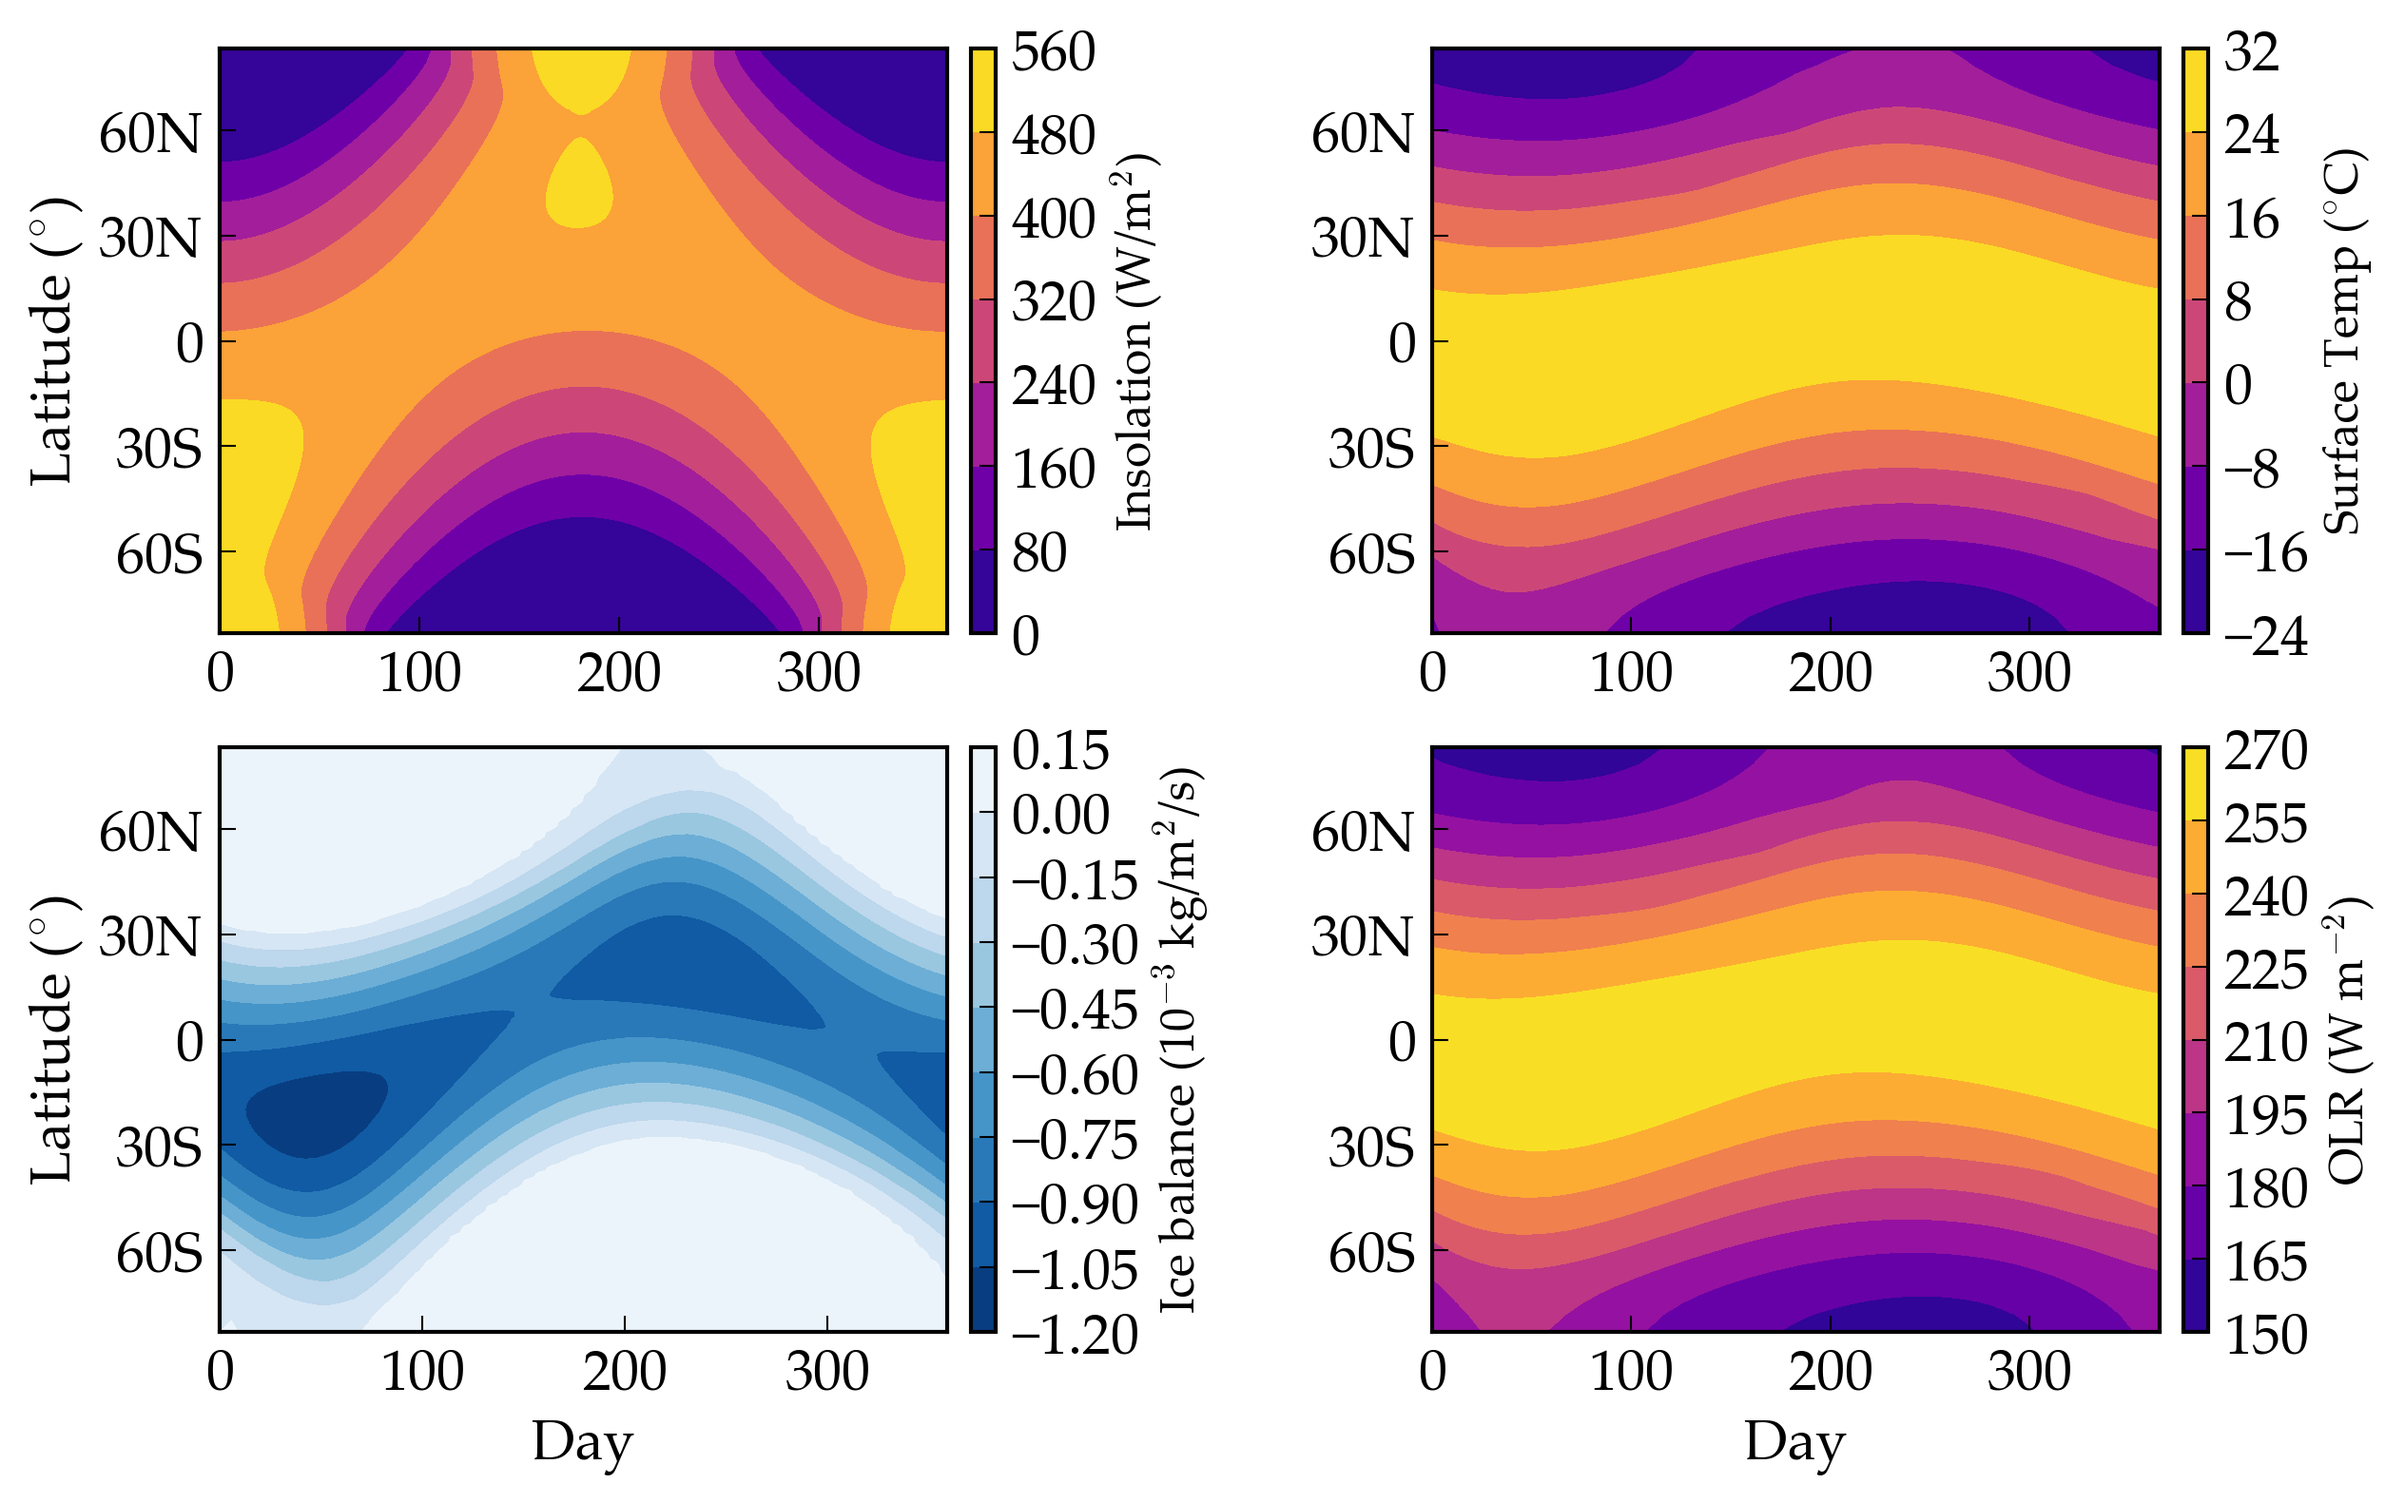
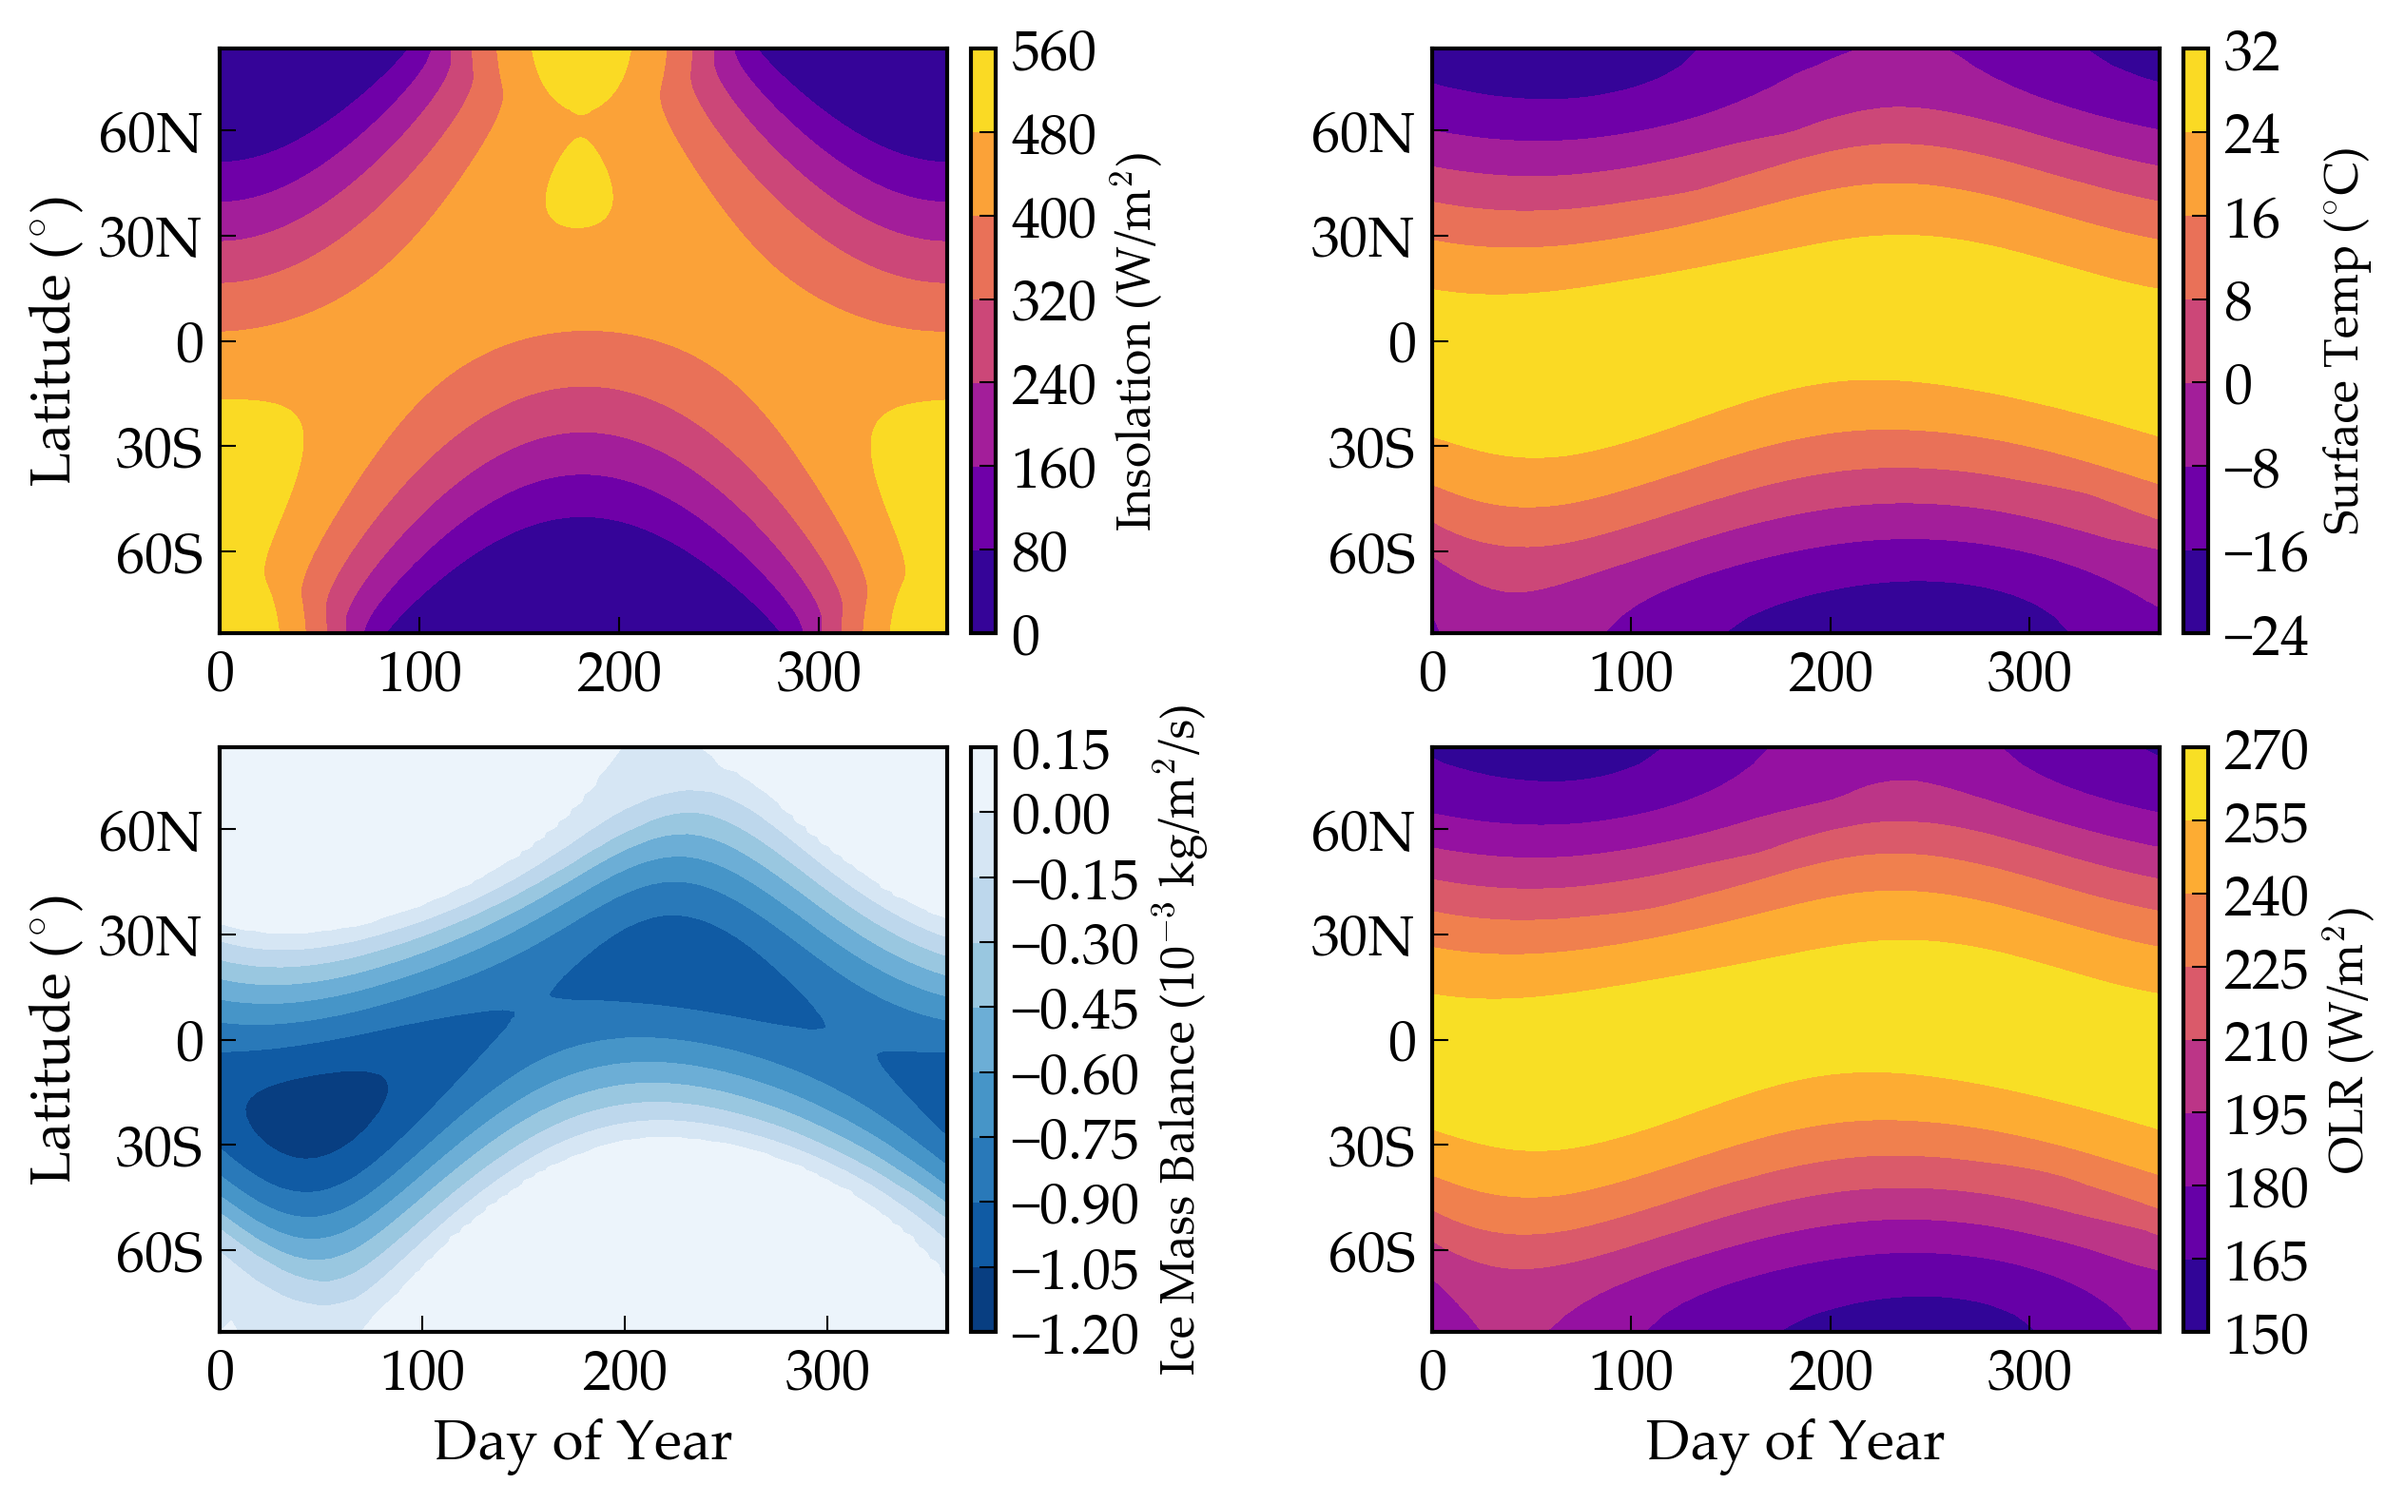
Tidied examples/EarthClimate/EarthClimateSeasons.png.

diff --git a/examples/EarthClimate/makeplot.py b/examples/EarthClimate/makeplot.py
@@ -351,9 +351,9 @@ def seasonal_maps(time, dir = '.', show = True):
     plt.ylim(lats[0],lats[-1])
     plt.ylabel('Latitude ($^{\circ}$)')
     plt.yticks([-60,-30,0,30,60],['60S','30S','0','30N','60N'])
-    plt.xlabel('Day')
+    plt.xlabel('Day of Year')
     clb =plt.colorbar(c3,cax=plt.axes([pos[1,0]+0.01,pos[0,1],0.01,pos[1,1]-pos[0,1]]))
-    clb.set_label(r'Ice balance (10$^{-3}$ kg/m$^2$/s)',fontsize=12)
+    clb.set_label(r'Ice Mass Balance (10$^{-3}$ kg/m$^2$/s)',fontsize=12)
 
 
     scale = 4*np.shape(insol)[1]/np.shape(temp)[1]
@@ -365,9 +365,9 @@ def seasonal_maps(time, dir = '.', show = True):
     plt.xlim(0,np.shape(temp)[1]*scale/4.)
     # plt.ylabel('Latitude ($^{\circ}$)')
     plt.yticks([-60,-30,0,30,60],['60S','30S','0','30N','60N'])
-    plt.xlabel('Day')
+    plt.xlabel('Day of Year')
     clb=plt.colorbar(c2,cax=plt.axes([pos[1,0]+0.01,pos[0,1],0.01,pos[1,1]-pos[0,1]]))
-    clb.set_label(r'OLR (W m$^{-2}$)',fontsize=12)
+    clb.set_label(r'OLR (W/m$^{2}$)',fontsize=12)
 
     if (sys.argv[1] == 'pdf'):
         plt.savefig('EarthClimateSeasons.pdf', dpi=300)
